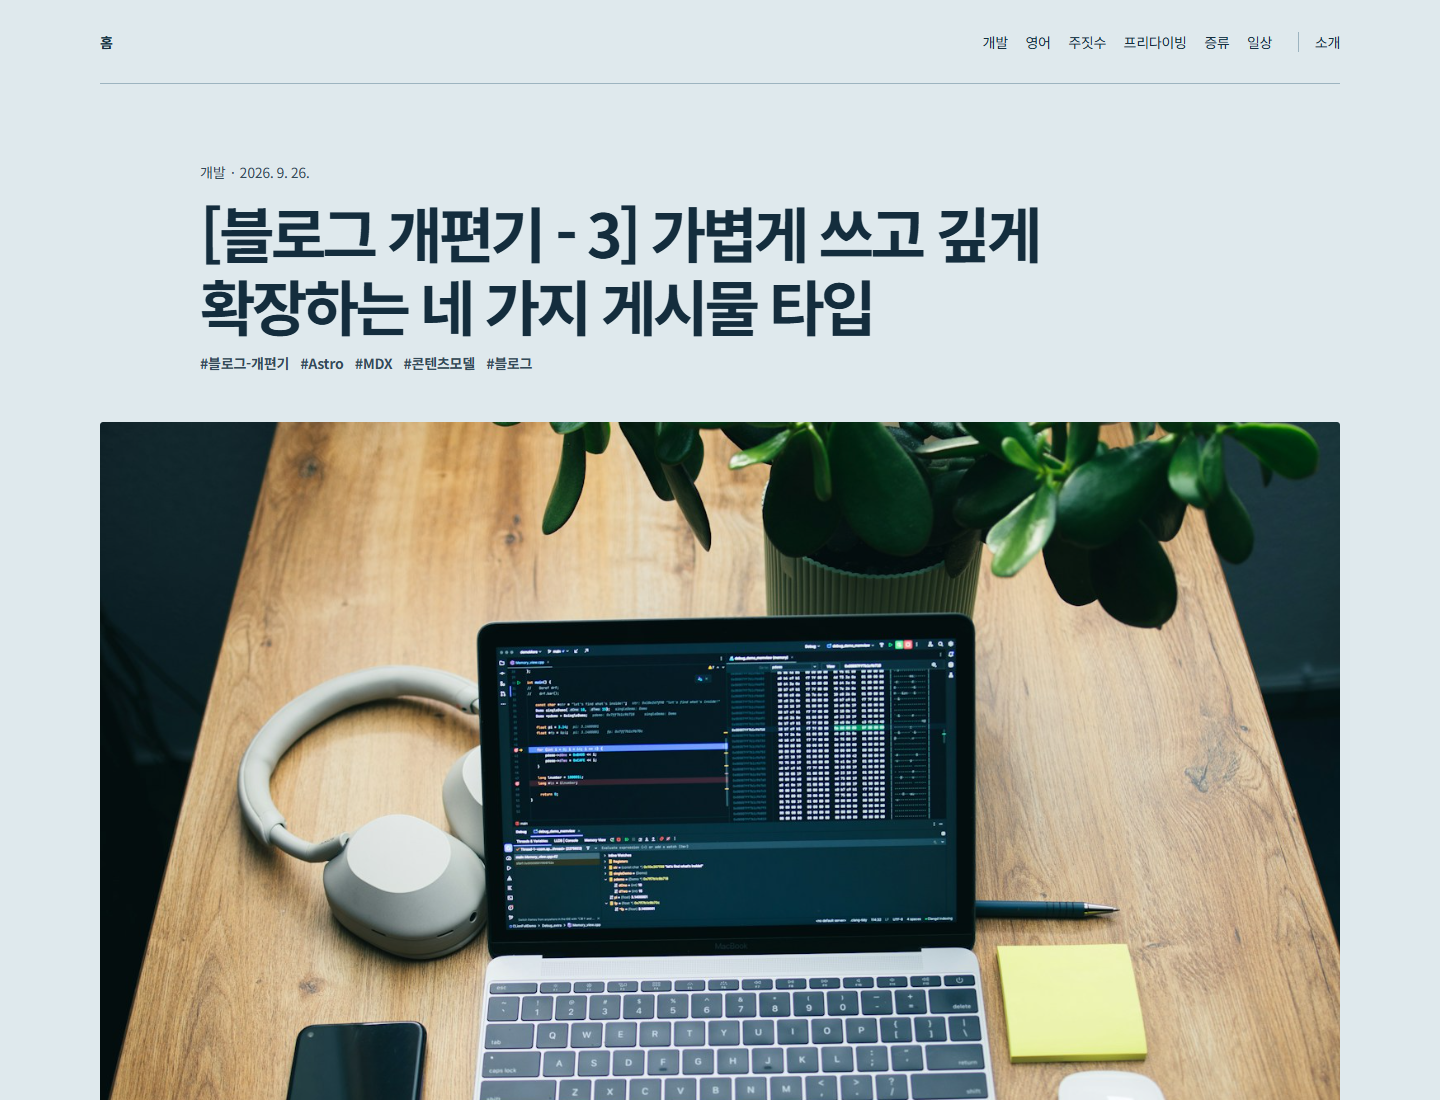
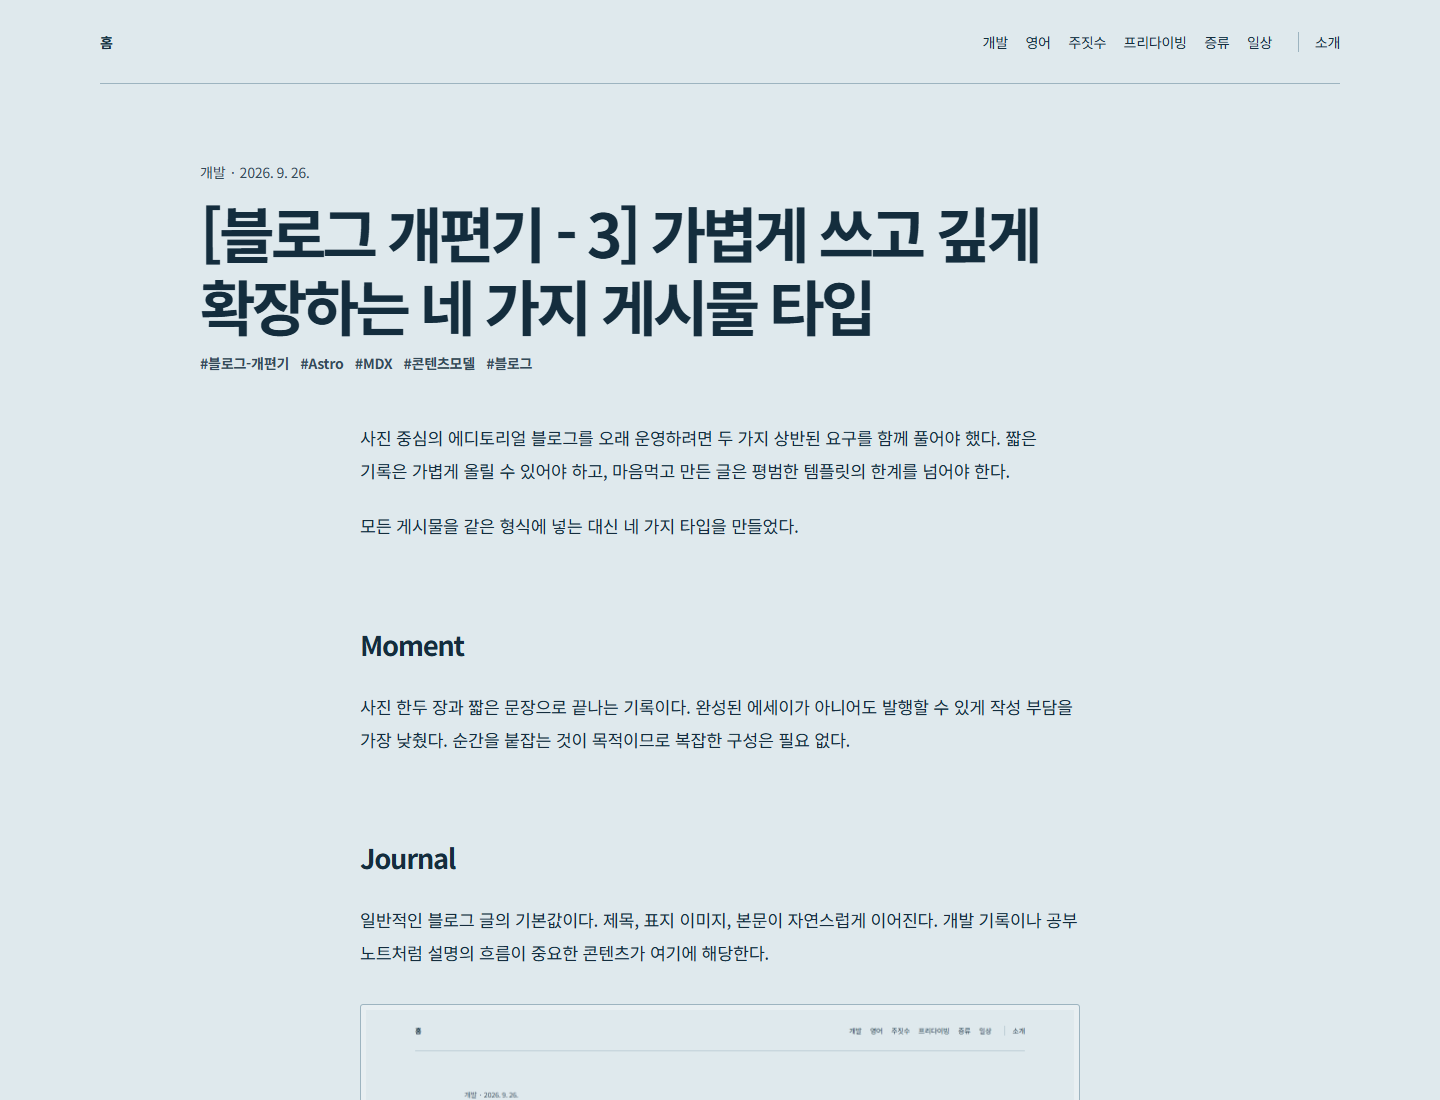
Remove redundant covers and improve series navigation

diff --git a/src/styles/global.css b/src/styles/global.css
@@ -200,6 +200,39 @@ footer a:hover { opacity: 0.58; }
   border-radius: 0.2rem;
   background: rgba(255, 255, 255, 0.28);
 }
+.series-nav {
+  display: grid;
+  grid-template-columns: repeat(2, minmax(0, 1fr));
+  gap: var(--space-4);
+  margin-top: clamp(3rem, 7vw, 5rem);
+  padding-top: var(--space-5);
+  border-top: 1px solid var(--line);
+}
+.series-nav a {
+  display: flex;
+  min-width: 0;
+  min-height: 5.25rem;
+  flex-direction: column;
+  justify-content: center;
+  gap: var(--space-1);
+  padding: var(--space-4);
+  border: 1px solid var(--line);
+  border-radius: 0.2rem;
+  background: var(--surface);
+  word-break: keep-all;
+}
+.series-nav a:hover { background: rgba(255, 255, 255, 0.3); }
+.series-nav a.next { text-align: right; }
+.series-nav > .next:first-child { grid-column: 2; }
+.series-nav span { color: var(--muted); font-size: 0.78rem; font-weight: 650; }
+.series-nav strong { font-size: clamp(0.94rem, 1.4vw, 1.05rem); line-height: 1.45; }
+
+@media (max-width: 40rem) {
+  .series-nav { grid-template-columns: minmax(0, 1fr); gap: var(--space-3); }
+  .series-nav > .next:first-child { grid-column: 1; }
+  .series-nav a,
+  .series-nav a.next { min-height: 4.5rem; text-align: left; }
+}
 
 .post { padding: clamp(3rem, 6vw, 4rem) 0 clamp(4.75rem, 9vw, 6.5rem); }
 .post-head { max-width: min(65rem, 100%); margin: 0 auto clamp(2.25rem, 5vw, 3rem); }

diff --git a/src/content/posts/2026-09-26-blog-dev-06-content-qa.md b/src/content/posts/2026-09-26-blog-dev-06-content-qa.md
@@ -4,8 +4,6 @@ description: '제목, 표, 이미지, 링크를 실제 게시물에서 확인하
 date: 2026-09-26
 category: DEV
 postType: journal
-cover: '/images/categories/development.jpg'
-coverAlt: '노트북과 개발 도구가 놓인 작업 공간'
 featured: false
 tags: [블로그-개편기, QA, 타이포그래피, 이미지, 반응형, 접근성]
 ---
@@ -45,4 +43,7 @@ tags: [블로그-개편기, QA, 타이포그래피, 이미지, 반응형, 접근
 
 이 과정을 거치며 완료 기준이 “렌더링된다”에서 “실제 콘텐츠를 읽을 때 리듬이 유지된다”로 바뀌었다.
 
-[이전 글: 모바일 메뉴를 다시 설계한 이유](/posts/2026-09-26-blog-dev-05-mobile-navigation/) · [다음 글: 엄격한 QA와 배포를 완료 조건으로 삼기](/posts/2026-09-26-blog-dev-07-quality-and-deployment/)
+<nav class="series-nav" aria-label="블로그 개편기 글 이동">
+  <a class="previous" href="/posts/2026-09-26-blog-dev-05-mobile-navigation/"><span>이전 글</span><strong>5편 · 모바일 메뉴 재설계</strong></a>
+  <a class="next" href="/posts/2026-09-26-blog-dev-07-quality-and-deployment/"><span>다음 글</span><strong>7편 · QA와 배포</strong></a>
+</nav>

diff --git a/src/content/posts/2026-09-26-blog-dev-04-astro-mdx-architecture.md b/src/content/posts/2026-09-26-blog-dev-04-astro-mdx-architecture.md
@@ -4,8 +4,6 @@ description: '정적 블로그의 단순함을 유지하면서 검색, 이미지
 date: 2026-09-26
 category: DEV
 postType: journal
-cover: '/images/categories/development.jpg'
-coverAlt: '노트북과 개발 도구가 놓인 작업 공간'
 featured: false
 tags: [블로그-개편기, Astro, TypeScript, MDX, Pagefind, GitHub-Pages]
 ---
@@ -50,4 +48,7 @@ Astro 정적 빌드 → Pagefind 색인 생성 → GitHub Pages 배포
 
 다음 글에서는 기술보다 더 많은 재작업을 만들었던 모바일 메뉴와 반응형 정보구조를 정리한다.
 
-[이전 글: 네 가지 게시물 타입](/posts/2026-09-26-blog-dev-03-four-post-types/) · [다음 글: 모바일 메뉴를 다시 설계한 이유](/posts/2026-09-26-blog-dev-05-mobile-navigation/)
+<nav class="series-nav" aria-label="블로그 개편기 글 이동">
+  <a class="previous" href="/posts/2026-09-26-blog-dev-03-four-post-types/"><span>이전 글</span><strong>3편 · 네 가지 게시물 타입</strong></a>
+  <a class="next" href="/posts/2026-09-26-blog-dev-05-mobile-navigation/"><span>다음 글</span><strong>5편 · 모바일 메뉴 재설계</strong></a>
+</nav>
